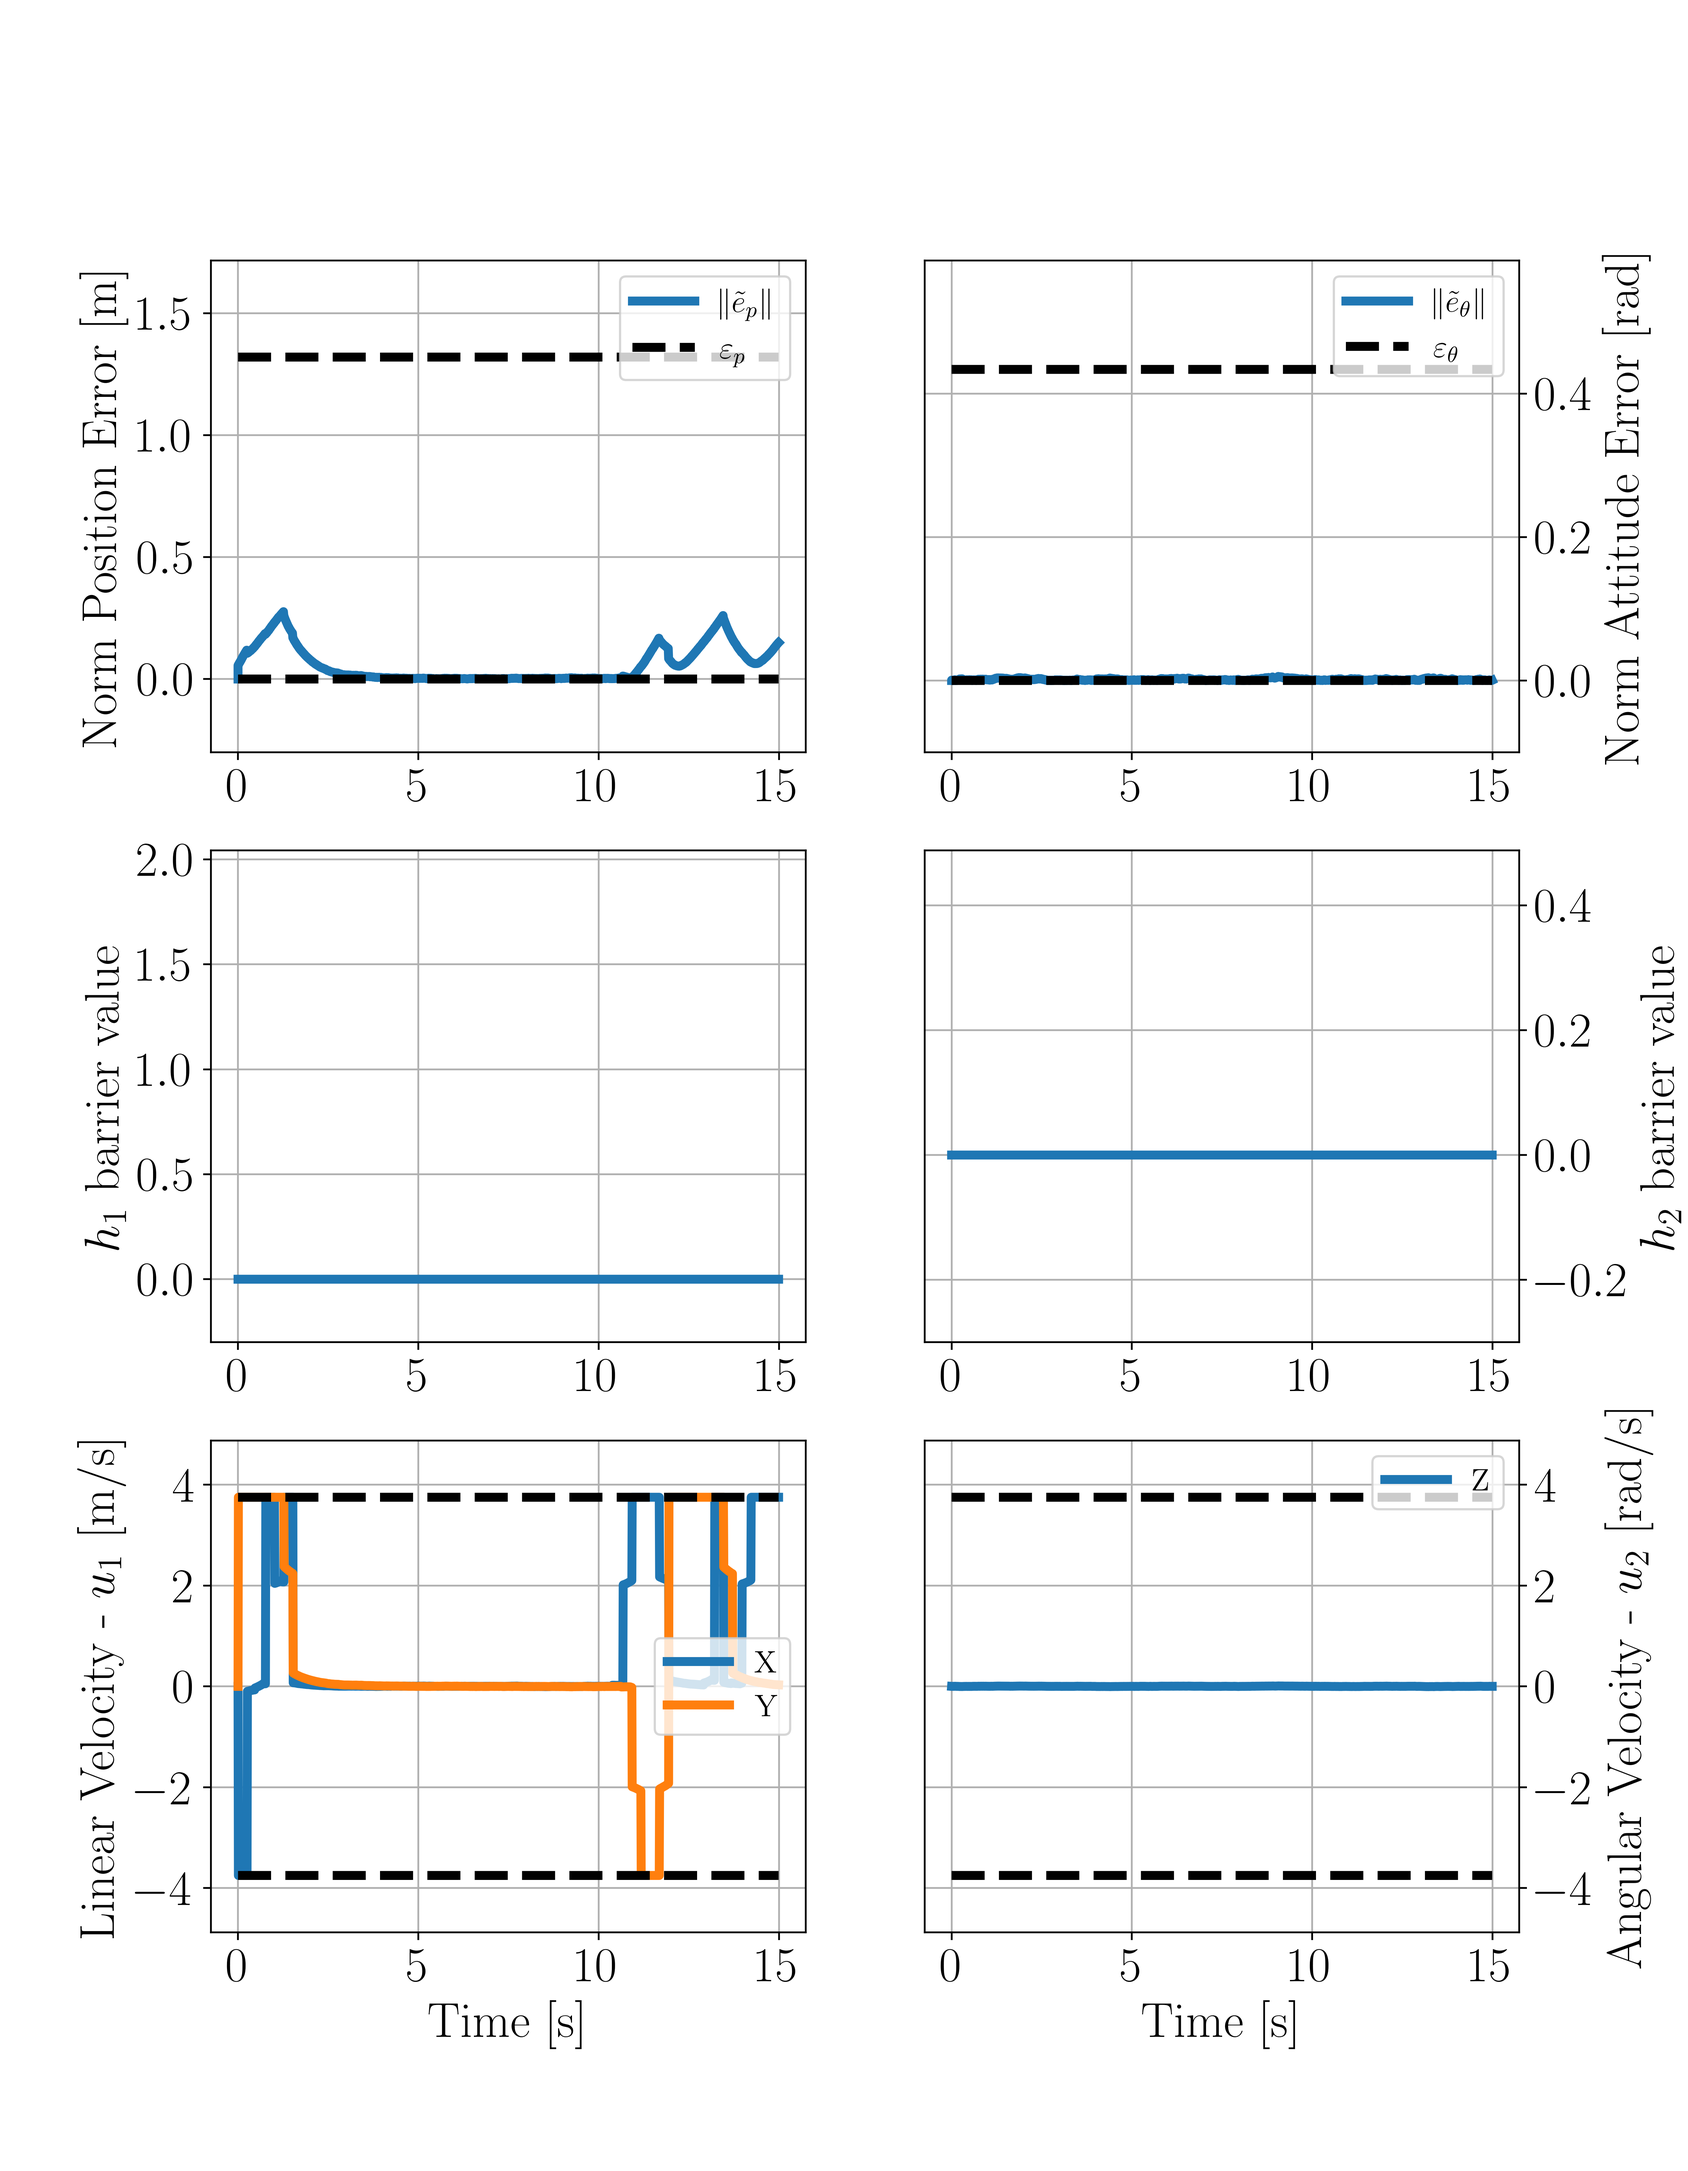
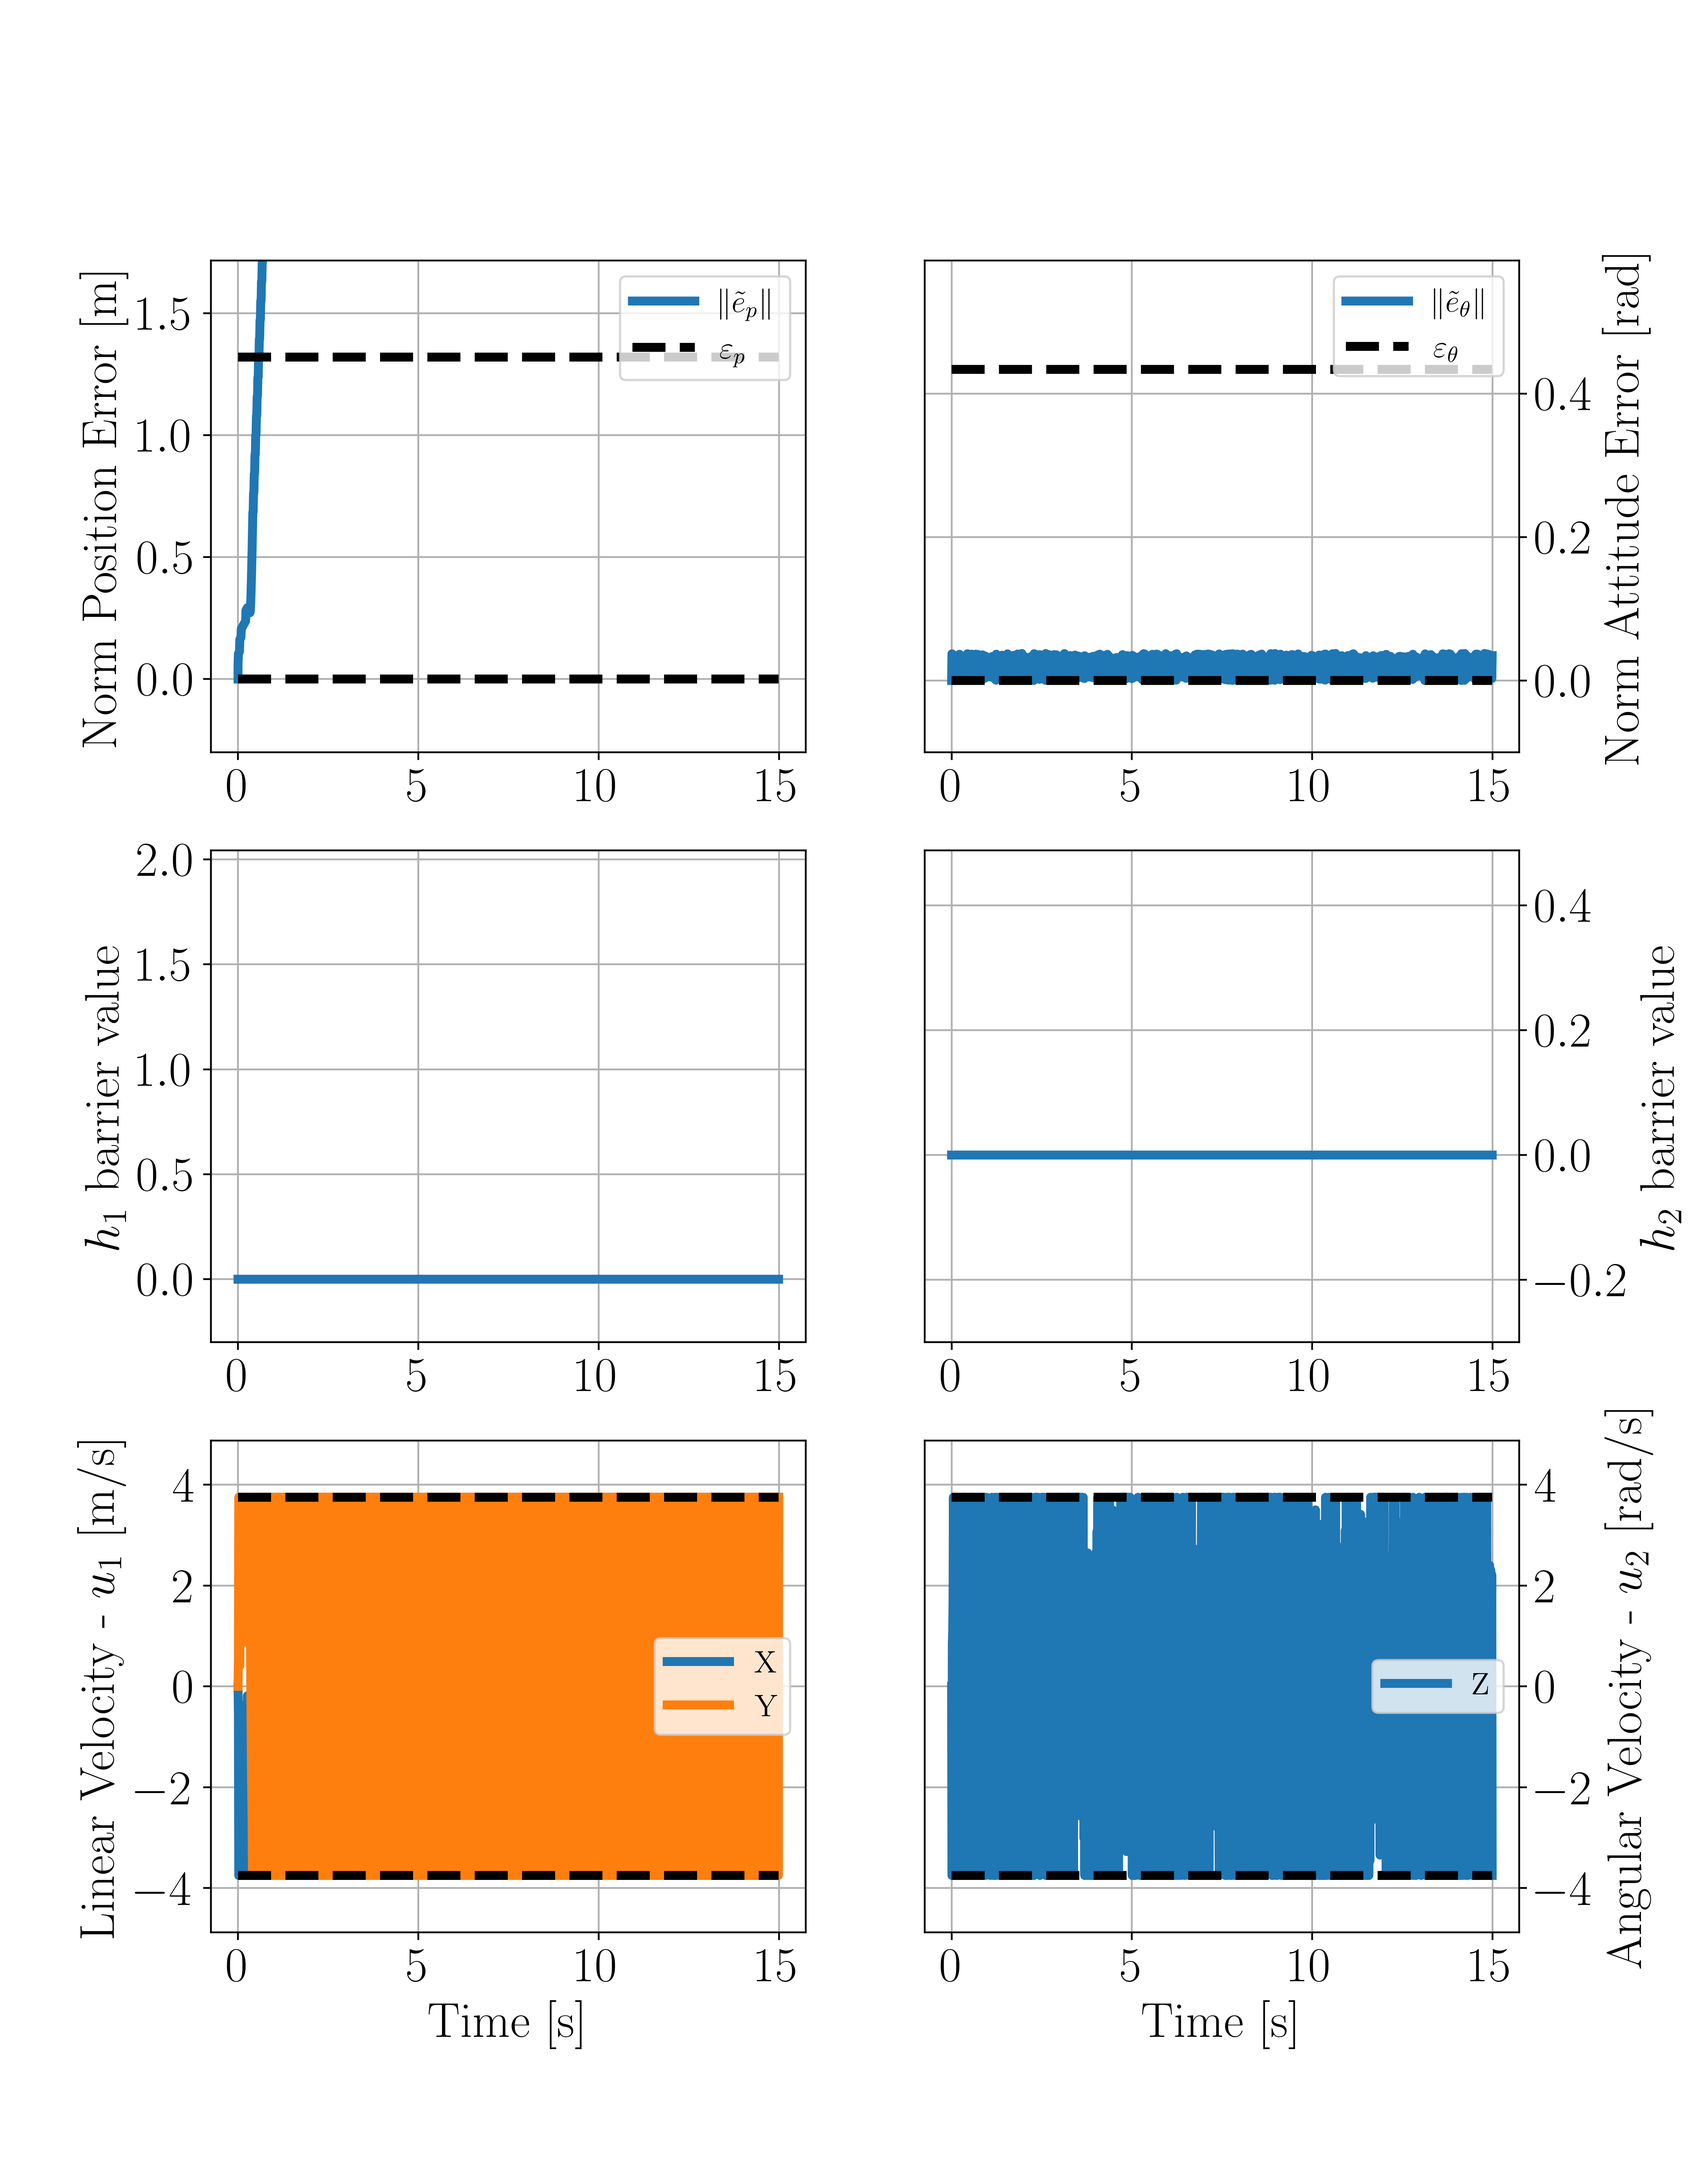
added the initial waypoint Barrier, now working

diff --git a/src/corridor_mpc/models/ff_kinematics.py b/src/corridor_mpc/models/ff_kinematics.py
@@ -7,7 +7,7 @@ import numpy as np
 
 
 class FreeFlyerKinematics(object):
-    def __init__(self, dt=None):
+    def __init__(self, dt=None, **kwargs):
         """
         Astrobee Robot kinematics class class.
 
@@ -43,7 +43,17 @@ class FreeFlyerKinematics(object):
         self.set_casadi_options()
         self.set_system_constants()
         self.set_dynamics()
-        self.set_barrier_functions()
+
+        # Initialize barrier and trajectory variables
+        if "cbfs" in kwargs:
+            self.cbfs = kwargs["cbfs"]
+        if "trajs" in kwargs:
+            self.trajs = kwargs["trajs"]
+
+        if self.cbfs is None:
+            self.set_barrier_functions()
+        else:
+            self.set_barrier_functions_waypoints()
 
     def set_casadi_options(self):
         """
@@ -310,7 +320,63 @@ class FreeFlyerKinematics(object):
         self.h2 = ca.Function('h2', [t, tr], [h2], self.fun_options)
         self.h2_ineq = ca.Function('h2_ineq', [t, tr, u], [h2_ineq], self.fun_options)
 
-    def get_barrier_value(self, x_t, x_r, u_t):
+    def set_barrier_functions_waypoints(self):
+        # Paper Translation barrier
+        time_var = ca.MX.sym("time", 1, 1)
+        u = ca.MX.sym("u", self.n, 1)
+        u1 = u[0:2]
+        u2 = u[2:]
+
+        # for now, just take the first barrier
+        tj = self.cbfs[0]
+        t0 = tj[0][0]
+        tf = tj[0][1]
+        x0 = tj[0][2]
+        xf = tj[0][3]
+        dt = tf-t0
+        eps = 0.05
+    
+        gamma = 15
+        time = -1/gamma * ca.log(ca.exp(-gamma*time_var) + np.exp(-gamma*tf))
+        time = ca.fmin(time_var,tf)
+
+        # Setup position barrier
+        eta_range = [ca.norm_2(x0[0:2]-xf[0:2]) + eps, eps]
+        eta = eta_range[0]*(1-(time-t0)/(dt)) + eta_range[1]*((time-t0)/(dt))
+        eta_dt = -eta_range[0]*(time/dt) + eta_range[1]*(time/dt)
+
+        p = ca.MX.sym("p", 2, 1)
+        pr = ca.MX.sym("pr", 2, 1)
+
+        get_h = eta**2 - ca.norm_2(p-xf[0:2])**2
+        get_dhdt = 2*eta * eta_dt
+        get_dhdx = -2*(p-xf[0:2]).T @ u1
+
+        h1 = get_h
+        h1_ineq = get_dhdt + get_dhdx + self.lambda_1 * h1 - self.rah_1
+        
+        self.h1 = ca.Function('h1', [time_var, p, pr], [h1], self.fun_options)
+        self.h1_ineq = ca.Function('h1_ineq', [time_var, p, pr, u], [h1_ineq], self.fun_options)
+
+        # Setup attitude barrier
+        eta_range = [ca.norm_2(x0[2:]-xf[2:]) + eps, eps]
+        eta = eta_range[0]*(1-(time-t0)/(dt)) + eta_range[1]*((time-t0)/(dt))
+        eta_dt = -eta_range[0]*(time/dt) + eta_range[1]*(time/dt)
+
+        p = ca.MX.sym("p", 1, 1)
+        pr = ca.MX.sym("pr", 1, 1)
+
+        get_h = eta**2 - ca.norm_2(p-xf[2:])**2
+        get_dhdt = 2*eta * eta_dt
+        get_dhdx = -2*(p-xf[2:]).T @ u2
+
+        h2 = get_h
+        h2_ineq = get_dhdt + get_dhdx + self.lambda_2 * h2 - self.rah_2
+
+        self.h2 = ca.Function('h2', [time_var, p, pr], [h2], self.fun_options)
+        self.h2_ineq = ca.Function('h2_ineq', [time_var, p, pr, u], [h2_ineq], self.fun_options)
+
+    def get_barrier_value(self, t0, x_t, x_r, u_t):
         """
         Helper function to get the barrier function values.
 
@@ -330,11 +396,19 @@ class FreeFlyerKinematics(object):
         tr = x_r[2:]
         u = u_t
 
-        # hp_ineq >= 0
-        h1_ineq = self.h1_ineq(p, pr, u)
+        if self.cbfs is None:
+            # hp_ineq >= 0
+            h1_ineq = self.h1_ineq(p, pr, u)
 
-        # hq_ineq >= 0
-        h2_ineq = self.h2_ineq(t, tr, u)
+            # hq_ineq >= 0
+            h2_ineq = self.h2_ineq(t, tr, u)
+        
+        else:
+            # hp_ineq >= 0
+            h1_ineq = self.h1_ineq(t0, p, pr, u)
+
+            # hq_ineq >= 0
+            h2_ineq = self.h2_ineq(t0, t, tr, u)
 
         return h1_ineq, h2_ineq
 

diff --git a/src/corridor_mpc/controllers/corridor_mpc.py b/src/corridor_mpc/controllers/corridor_mpc.py
@@ -100,10 +100,11 @@ class CorridorMPC(object):
         build_solver_time = -time.time()
 
         # Starting state parameters - add slack here
+        t0 = ca.MX.sym('t_sym', 1)
         x0 = ca.MX.sym('x0', self.Nx)
         x_ref = ca.MX.sym('x_ref', self.Nx * (self.Nt + 1),)
         u_ref = ca.MX.sym('u_ref', self.Nu * self.Nt,)
-        param_s = ca.vertcat(x0, x_ref, u_ref)
+        param_s = ca.vertcat(t0, x0, x_ref, u_ref)
 
         # Create optimization variables
         opt_var = ctools.struct_symMX([(
@@ -159,7 +160,12 @@ class CorridorMPC(object):
 
             # ZCBF constraints
             if hasattr(self, "use_zcbf") and t == 0:
-                hp_ineq, hq_ineq = self.model.get_barrier_value(x_t, x_r, u_t)
+                print("x_t: ", x_t)
+                print("x_r: ", x_r)
+                print("u_t: ", u_t)
+                hp_ineq, hq_ineq = self.model.get_barrier_value(t0, x_t, x_r, u_t)
+                print(hp_ineq)
+                print(hq_ineq)
                 con_ineq.append(hp_ineq)
                 con_ineq_lb.append(0)
                 con_ineq_ub.append(ca.inf)
@@ -334,7 +340,7 @@ class CorridorMPC(object):
 
         return
 
-    def solve_mpc(self, x0, u0=None):
+    def solve_mpc(self, t0, x0, u0=None):
         """
         Solve the MPC problem
 
@@ -353,7 +359,7 @@ class CorridorMPC(object):
         self.optvar_init = self.opt_var(0)
         self.optvar_init['x', 0] = self.optvar_x0[0]
 
-        param = ca.vertcat(x0, self.x_sp, self.u_sp)
+        param = ca.vertcat(t0, x0, self.x_sp, self.u_sp)
         args = dict(x0=self.optvar_init,
                     lbx=self.optvar_lb,
                     ubx=self.optvar_ub,
@@ -396,14 +402,15 @@ class CorridorMPC(object):
         else:
             x_sp_vec, u_sp_vec = self.model.get_trajectory_waypoints(t0, self.Nt+1, self.trajs)
         
-        print("x_sp_vec: ", np.shape(x_sp_vec))
-        print("u_sp_vec:" , np.shape(u_sp_vec))
+        # print("x_sp_vec: ", np.shape(x_sp_vec))
+        # print("u_sp_vec:" , np.shape(u_sp_vec))
+
         ref = x_sp_vec[:, 0]
         x_sp = x_sp_vec.reshape(self.Nx * (self.Nt + 1), order='F')
         u_sp = u_sp_vec.reshape(self.Nu * self.Nt, order='F')
         self.set_reference(x_sp, u_sp)
 
-        x_pred, u_pred = self.solve_mpc(x0)
+        x_pred, u_pred = self.solve_mpc(t0,x0)
 
         return u_pred[0], ref, x_pred, x_sp_vec
 

diff --git a/src/corridor_mpc/simulation_trajectory.py b/src/corridor_mpc/simulation_trajectory.py
@@ -77,14 +77,16 @@ class EmbeddedSimEnvironment(object):
             # Print iteration info:
             print("Simulator iteration: ", i, " / ", self.sim_loop_length, "    Simulation time: ", round(i * self.dt, 2))
             x = np.array([y_vec[:, -1]]).T
+            t0 = i*self.dt
 
             # Get control input and obtain next state
-            u, ref, pred_x, pred_ref = self.corridor_mpc.solve(x, i * self.dt)
+            u, ref, pred_x, pred_ref = self.corridor_mpc.solve(x, t0)
 
             # Convert data to numpy array and collect barrier values
             u = np.asarray(u).reshape(3, 1)
 
-            hp_c, hq_c = self.model.get_barrier_value(x.reshape(self.Nx, 1),
+            hp_c, hq_c = self.model.get_barrier_value(t0,
+                                                      x.reshape(self.Nx, 1),
                                                       ref.reshape(self.Nx, 1),
                                                       u.reshape(self.Nu, 1))
             hp, hq = self.model.get_barrier_error_epsilon(x.reshape(self.Nx, 1),

diff --git a/scripts/run_tracking.py b/scripts/run_tracking.py
@@ -8,9 +8,9 @@ from corridor_mpc.simulation_trajectory import EmbeddedSimEnvironment
 
 # Trajectory from Robust STL
 with open("mp_data/prob1_export.pkl",'rb') as f:
-    cbfs,lines = pickle.load(f)
+    cbfs,trajs = pickle.load(f)
 # cbfs = None
-# lines = None
+# trajs = None
     
 # Sim and MPC Params
 SIM_TIME = 15.0
@@ -20,7 +20,7 @@ R = np.diag([50, 50, 30])
 P = Q * 100
 
 # Instantiante Model
-abee = FreeFlyerKinematics()
+abee = FreeFlyerKinematics(cbfs=cbfs)
 
 # Instantiate controller (to track a velocity)
 ctl = CorridorMPC(model=abee,
@@ -32,7 +32,7 @@ ctl = CorridorMPC(model=abee,
                   uub=abee.uub,
                   set_zcbf=True,
                   cbfs=cbfs,
-                  trajs=lines)
+                  trajs=trajs)
 
 xr0 = np.zeros((3, 1))
 abee.set_trajectory(length=SIM_TIME, start=xr0)
